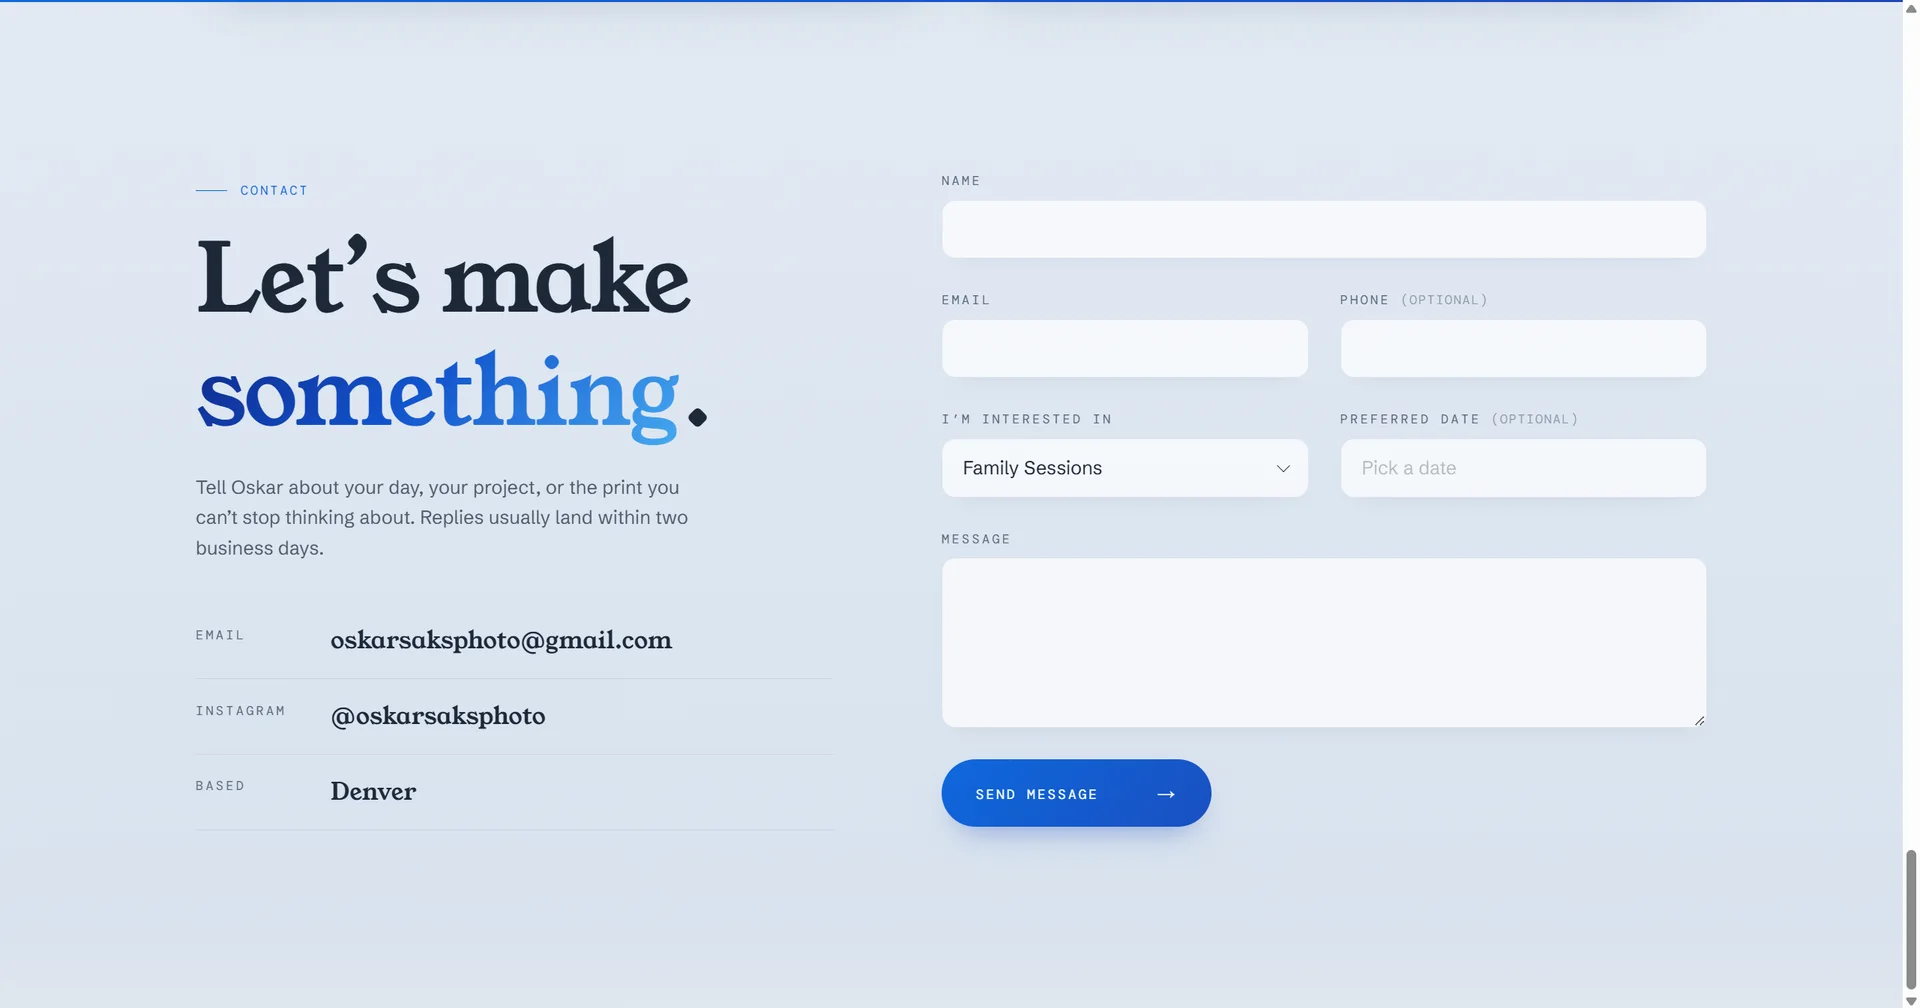
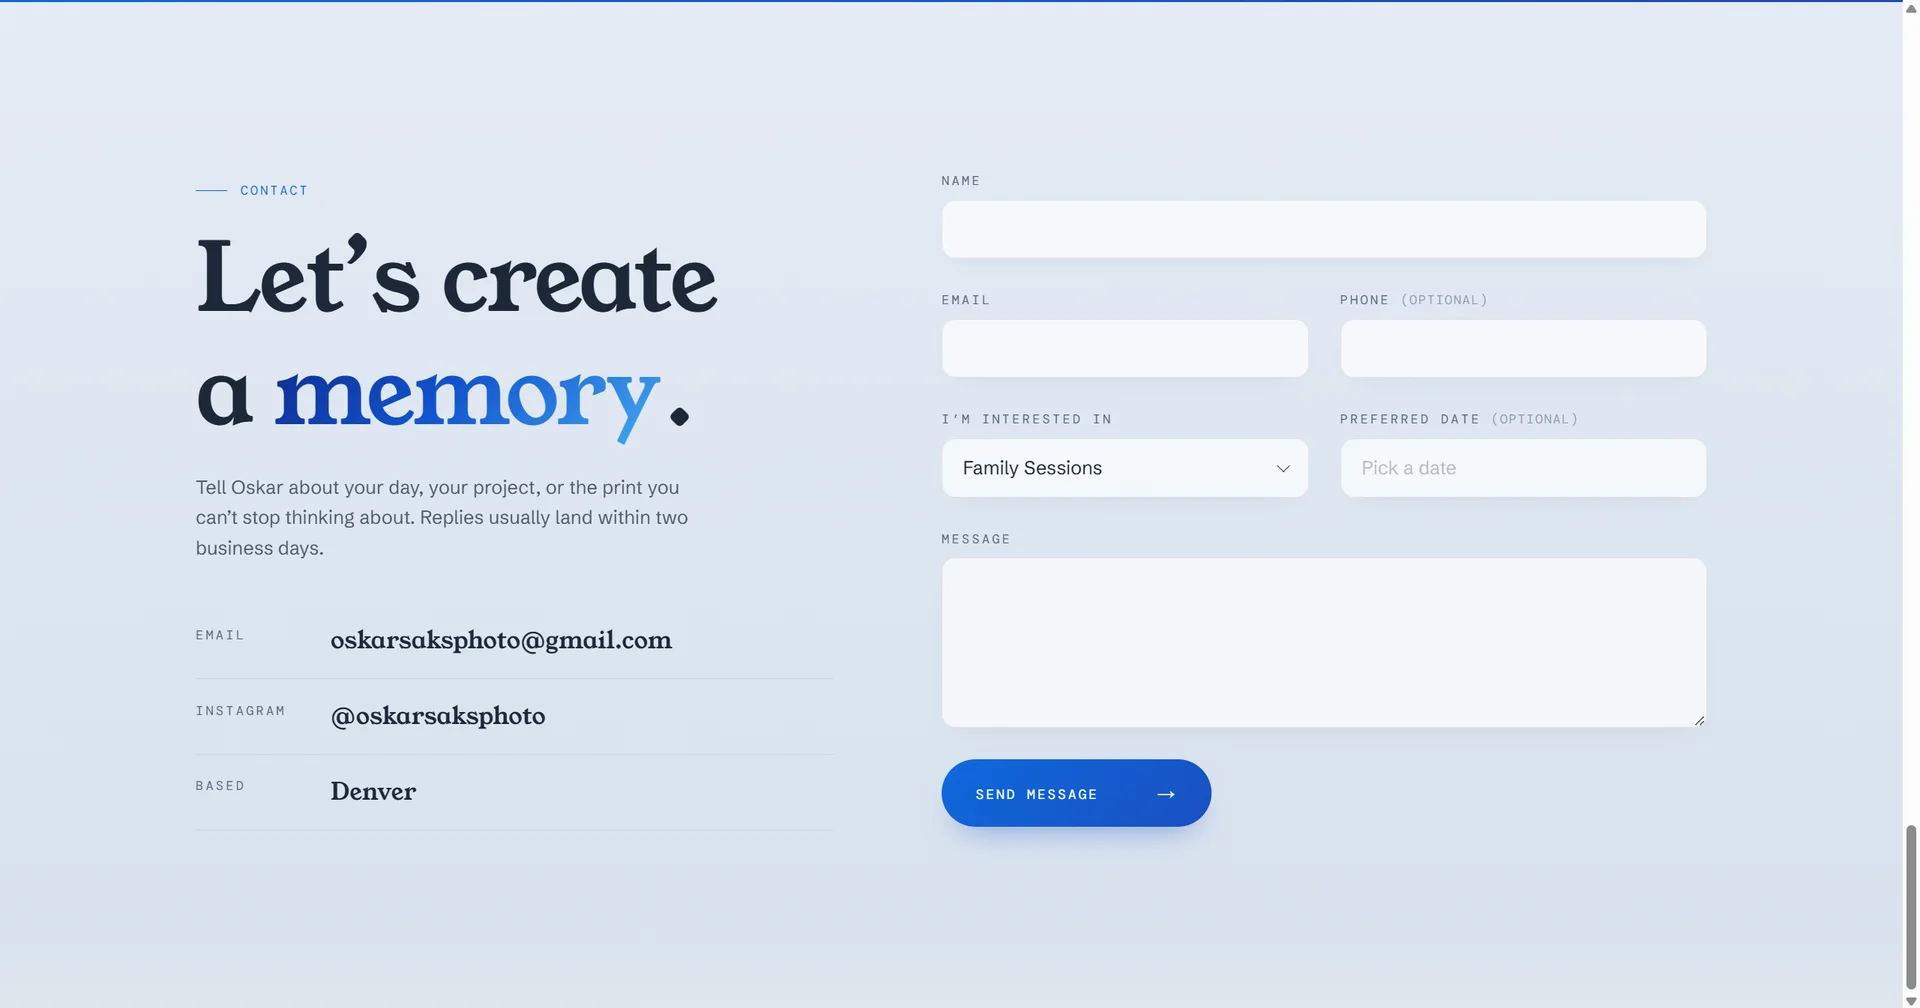
replaced screenshot with more current one

Changed region(s): [[0.0938, 0.3383, 0.375, 0.4613], [0.1875, 0.246, 0.375, 0.3075], [0.125, 0.2768, 0.1562, 0.3075]]

diff --git a/src/lib/content/oskarSaks.ts b/src/lib/content/oskarSaks.ts
@@ -61,7 +61,7 @@ export const oskarSaks = {
 			beforeAlt:
 				'Before: the old contact page, with a form asking for first and last name, email, a service level checkbox, and additional information.',
 			afterAlt:
-				'After: the new contact page, with a "Let’s make something" headline, direct contact details, and a form with a service dropdown and preferred date.',
+				'After: the new contact page, with a "Let’s create a memory" headline, direct contact details, and a form with a service dropdown and preferred date.',
 			changes: [
 				'A friendlier headline and a promised reply time set expectations before anyone writes a word.',
 				'Email, Instagram, and location sit beside the form for visitors who would rather not fill one out.',
